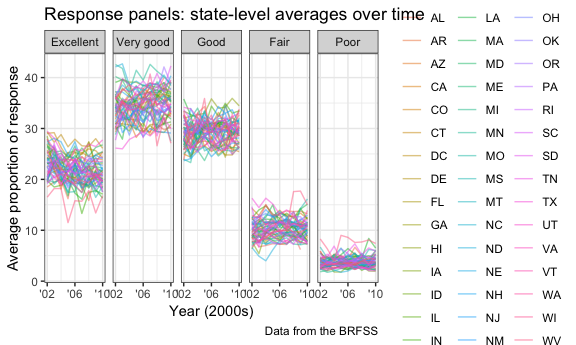
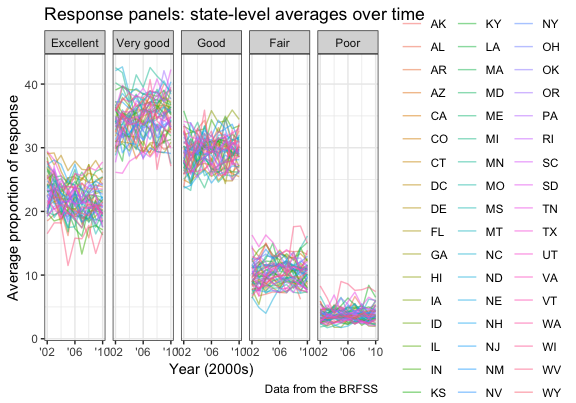
graph output reformat

diff --git a/p8105_hw3_eas2297.md b/p8105_hw3_eas2297.md
@@ -32,7 +32,7 @@ library(ggridges)
 ``` r
 knitr::opts_chunk$set(
   fig.width = 6,
-  fig.asp = .6,
+  fig.asp = .7,
   out.width = "90%"
 )
 
@@ -151,7 +151,7 @@ brfss_clean %>%
     x = "Year (2000s)",
     y = "Average proportion of response",
     caption = "Data from the BRFSS",
-    color = "State"
+    color = ""
   ) +
   theme(legend.position = "right")
 ```
@@ -167,3 +167,10 @@ any given year. Additionally, all states had an average proportion of
 “Very good” responses somewhere between 25% and 45% at any given time.
 
 ## Problem 2
+
+This problem uses the Instacart data; we can once again load this
+p8105.datasets package:
+
+``` r
+data(instacart)
+```
